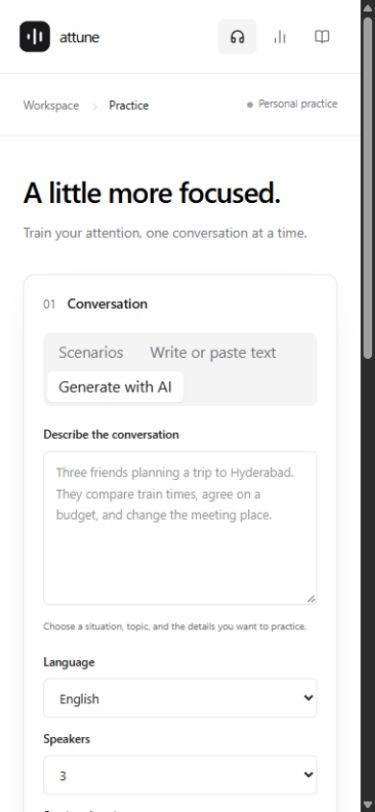
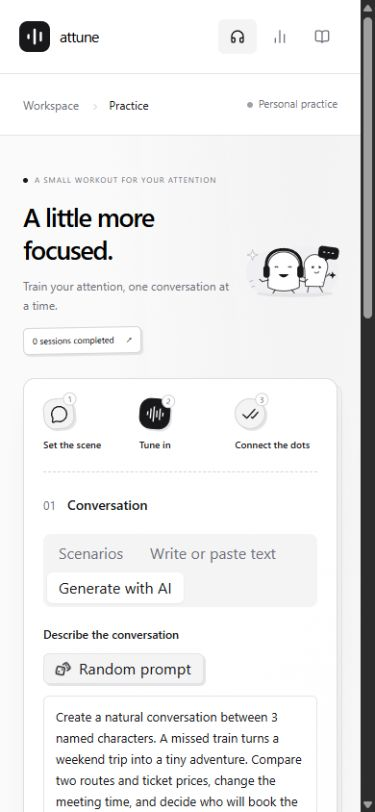
Add random scenario prompts and playful monochrome workspace illustrations

diff --git a/src/lib/random-prompts.ts b/src/lib/random-prompts.ts
@@ -1,0 +1,55 @@
+const scenarios: Record<string, string[]> = {
+  en: [
+    "A missed train turns a weekend trip into a tiny adventure. Compare two routes and ticket prices, change the meeting time, and decide who will book the replacement tickets.",
+    "A neighborhood café is planning a board-game night. Compare snack budgets, fix a double-booked table, and agree on a new start time and booking deadline.",
+    "The office plant has mysteriously vanished before an important visit. Compare clues, revise the welcome plan, and agree who will find a replacement before the deadline.",
+    "A group is opening a very small pop-up bookstore. Compare rent and transport costs, solve a late delivery, and decide the opening schedule and each task.",
+    "A picnic forecast suddenly predicts rain. Compare indoor alternatives and entry prices, change the food order, and settle on a meeting place and final time.",
+    "A community talent show has one microphone and too many ideas. Compare equipment costs, rearrange the running order, and assign setup jobs before the rehearsal.",
+    "A museum visit includes a surprisingly strict bag policy. Compare ticket options and transport times, change the lunch plan, and agree what everyone should bring.",
+    "A cooking workshop has accidentally ordered twice as many lemons. Compare recipe alternatives and supply costs, adjust the class schedule, and make a practical plan for the leftovers.",
+  ],
+  hi: [
+    "ट्रेन छूटने के बाद सप्ताहांत की यात्रा की नई योजना बनाइए। दो रास्तों और टिकट की कीमतों की तुलना करें, मिलने का समय बदलें और नई बुकिंग की जिम्मेदारी तय करें।",
+    "पड़ोस के कैफ़े में खेलों की शाम आयोजित की जा रही है। नाश्ते का बजट तय करें, मेज़ की दोहरी बुकिंग सुलझाएँ और नया समय तथा अंतिम तिथि तय करें।",
+    "एक महत्वपूर्ण बैठक से पहले दफ़्तर का पौधा गायब हो गया है। सुरागों की तुलना करें, स्वागत की योजना बदलें और समय पर नया पौधा लाने की जिम्मेदारी तय करें।",
+    "एक छोटी अस्थायी किताबों की दुकान खोलने की योजना बनाइए। किराए और परिवहन की लागत की तुलना करें, देर से आने वाली खेप का हल निकालें और काम बाँटें।",
+    "पिकनिक के दिन बारिश का अनुमान है। छत वाली जगहों और प्रवेश शुल्क की तुलना करें, खाने का ऑर्डर बदलें और मिलने का समय तथा स्थान तय करें।",
+    "सामुदायिक प्रतिभा कार्यक्रम में केवल एक माइक्रोफ़ोन है। उपकरण की लागत की तुलना करें, कार्यक्रम का क्रम बदलें और अभ्यास से पहले तैयारी के काम बाँटें।",
+    "संग्रहालय में बड़े बैग ले जाने पर रोक है। टिकट और यात्रा के विकल्पों की तुलना करें, दोपहर के भोजन की योजना बदलें और जरूरी सामान तय करें।",
+    "खाना बनाने की कार्यशाला में गलती से दुगने नींबू मँगाए गए हैं। व्यंजनों और खर्च की तुलना करें, कक्षा का समय बदलें और बचे नींबुओं के उपयोग की योजना बनाएँ।",
+  ],
+  te: [
+    "రైలు తప్పిపోవడంతో వారాంతపు ప్రయాణానికి కొత్త ప్రణాళిక వేయండి. రెండు మార్గాలు, టికెట్ ధరలు పోల్చి, కలిసే సమయాన్ని మార్చి, కొత్త టికెట్లు ఎవరు బుక్ చేయాలో నిర్ణయించండి.",
+    "పక్క వీధిలోని కేఫ్లో ఆటల సాయంత్రం నిర్వహించండి. తినుబండారాల బడ్జెట్ పోల్చి, ఒకే టేబుల్కు రెండు బుకింగ్ల సమస్య పరిష్కరించి, కొత్త సమయం, చివరి తేదీ నిర్ణయించండి.",
+    "ముఖ్యమైన సమావేశానికి ముందు ఆఫీసులోని మొక్క కనిపించడం లేదు. ఆధారాలు పోల్చి, స్వాగత ఏర్పాట్లు మార్చి, సమయానికి మరో మొక్క ఎవరు తీసుకురావాలో నిర్ణయించండి.",
+    "చిన్న తాత్కాలిక పుస్తకాల దుకాణాన్ని ప్రారంభించండి. అద్దె, రవాణా ఖర్చులు పోల్చి, ఆలస్యమైన సరుకు సమస్య పరిష్కరించి, ప్రారంభ సమయం, పనుల బాధ్యతలు నిర్ణయించండి.",
+    "వనభోజనం రోజున వర్షం వచ్చే అవకాశం ఉంది. పైకప్పు ఉన్న ప్రత్యామ్నాయ ప్రదేశాలు, ప్రవేశ ధరలు పోల్చి, భోజనం ఆర్డర్ మార్చి, కలిసే ప్రదేశం, సమయం నిర్ణయించండి.",
+    "కాలనీ ప్రతిభా ప్రదర్శనకు ఒకే మైక్ ఉంది. పరికరాల ఖర్చు పోల్చి, కార్యక్రమాల క్రమం మార్చి, సాధనకు ముందు ఏర్పాట్ల పనులు పంచుకోండి.",
+    "మ్యూజియంలో పెద్ద సంచులకు అనుమతి లేదు. టికెట్ ఎంపికలు, ప్రయాణ సమయాలు పోల్చి, మధ్యాహ్న భోజన ప్రణాళిక మార్చి, తీసుకురావాల్సిన వస్తువులు నిర్ణయించండి.",
+    "వంటల శిక్షణకు పొరపాటున రెట్టింపు నిమ్మకాయలు వచ్చాయి. వంటకాలు, ఖర్చులు పోల్చి, తరగతి సమయం మార్చి, మిగిలిన నిమ్మకాయల ఉపయోగానికి ప్రణాళిక వేయండి.",
+  ],
+};
+export function randomConversationPrompt(
+  lang: string,
+  speakers: number,
+  previousIndex = -1,
+  random = Math.random,
+) {
+  const choices = scenarios[lang] || scenarios.en;
+  const available = choices.map((_, i) => i).filter((i) => i !== previousIndex);
+  const index =
+    available[
+      Math.min(
+        available.length - 1,
+        Math.max(0, Math.floor(random() * available.length)),
+      )
+    ];
+  const intro =
+    lang === "te"
+      ? `${speakers} మంది పేర్లు ఉన్న పాత్రల మధ్య సహజమైన సంభాషణ రూపొందించండి. `
+      : lang === "hi"
+        ? `${speakers} नाम वाले पात्रों के बीच स्वाभाविक बातचीत बनाइए। `
+        : `Create a natural conversation between ${speakers} named characters. `;
+  return { index, text: intro + choices[index] };
+}

diff --git a/src/components/listening-doodle.tsx b/src/components/listening-doodle.tsx
@@ -1,0 +1,150 @@
+import { AudioLines, CheckCheck, MessageCircle } from "lucide-react";
+export function ListeningDoodle({
+  variant = "listen",
+}: {
+  variant?: "listen" | "library" | "progress";
+}) {
+  return (
+    <div className="listening-doodle" aria-hidden="true">
+      <span className="doodle-caption">
+        {variant === "library"
+          ? "good stories live here"
+          : variant === "progress"
+            ? "tiny steps. big ears."
+            : "all ears, zero distractions"}
+      </span>
+      <svg viewBox="0 0 300 166" fill="none" xmlns="http://www.w3.org/2000/svg">
+        <ellipse cx="157" cy="145" rx="108" ry="10" fill="#e4e4e7" />
+        <path
+          d="M18 82C18 37 66 14 122 28c48-36 123-14 151 25 25 37 4 88-51 91H80C44 144 18 120 18 82Z"
+          fill="#f0f0f2"
+        />
+        <path
+          d="m34 32 3-11 4 11 11 3-11 4-4 11-3-11-11-4 11-3Z"
+          fill="white"
+          stroke="#a1a1aa"
+          strokeWidth="1.5"
+        />
+        <path d="m261 90 3-8 3 8 8 3-8 3-3 8-3-8-8-3 8-3Z" fill="#18181b" />
+        <g className="doodle-pal doodle-pal-back">
+          <path
+            d="M185 74c-7-23 15-45 38-38 23 7 33 26 24 48l-10 41-50-1-2-50Z"
+            fill="white"
+            stroke="#18181b"
+            strokeWidth="2"
+          />
+          <path
+            d="m196 126-3 16m34-17 9 16"
+            stroke="#18181b"
+            strokeWidth="2"
+            strokeLinecap="round"
+          />
+          <circle cx="208" cy="70" r="2.8" fill="#18181b" />
+          <circle cx="228" cy="70" r="2.8" fill="#18181b" />
+          <path
+            d="M212 83q7 8 14-1"
+            stroke="#18181b"
+            strokeWidth="2"
+            strokeLinecap="round"
+          />
+          <path
+            d="m186 100-13-4m73 1 11-10"
+            stroke="#18181b"
+            strokeWidth="2"
+            strokeLinecap="round"
+          />
+        </g>
+        <g className="doodle-pal doodle-pal-front">
+          <path
+            d="M81 68c0-24 20-41 44-41s45 17 45 41v59c-27 14-62 14-89 0V68Z"
+            fill="white"
+            stroke="#18181b"
+            strokeWidth="2.2"
+          />
+          <path
+            d="M76 77V64c0-29 21-44 49-44s50 16 50 44v13"
+            stroke="#18181b"
+            strokeWidth="8"
+            strokeLinecap="round"
+          />
+          <rect x="68" y="66" width="18" height="34" rx="8" fill="#18181b" />
+          <rect x="164" y="66" width="18" height="34" rx="8" fill="#18181b" />
+          <path
+            d="M100 72q5-7 10 0m28 0q5-7 10 0"
+            stroke="#18181b"
+            strokeWidth="2.3"
+            strokeLinecap="round"
+          />
+          <path d="M111 90q14 18 29 0" fill="#18181b" />
+          <path
+            d="m102 134-7 10m53-10 8 10"
+            stroke="#18181b"
+            strokeWidth="2.2"
+            strokeLinecap="round"
+          />
+          <path
+            d="m83 106-18 5-8-7m113 4 15 4 8-8"
+            stroke="#18181b"
+            strokeWidth="2.2"
+            strokeLinecap="round"
+          />
+        </g>
+        <g transform="rotate(8 252 28)">
+          <path
+            d="M234 12h38a10 10 0 0 1 10 10v14a10 10 0 0 1-10 10h-15l-11 8v-8h-12a10 10 0 0 1-10-10V22a10 10 0 0 1 10-10Z"
+            fill="#18181b"
+          />
+          <path
+            d="M239 29h4m8 0h4m8 0h4"
+            stroke="white"
+            strokeWidth="3"
+            strokeLinecap="round"
+          />
+        </g>
+        <path
+          d="m29 112 9-5m-4 19 10-2m190-12 7 5"
+          stroke="#a1a1aa"
+          strokeWidth="1.8"
+          strokeLinecap="round"
+        />
+      </svg>
+    </div>
+  );
+}
+export function ListeningTrail() {
+  const steps = [
+    {
+      icon: MessageCircle,
+      title: "Set the scene",
+      detail: "A little everyday chaos.",
+    },
+    {
+      icon: AudioLines,
+      title: "Tune in",
+      detail: "One listen. Catch the details.",
+    },
+    {
+      icon: CheckCheck,
+      title: "Connect the dots",
+      detail: "Answer, learn, do it again.",
+    },
+  ];
+  return (
+    <div className="listening-trail" aria-label="How practice works">
+      {steps.map((step, i) => (
+        <div className="trail-step" key={step.title}>
+          <div className={`trail-icon trail-icon-${i}`}>
+            <step.icon size={19} strokeWidth={1.7} />
+            <span>{i + 1}</span>
+          </div>
+          <div>
+            <p className="text-xs font-medium">{step.title}</p>
+            <p className="text-[10px] text-muted-foreground mt-1 leading-4">
+              {step.detail}
+            </p>
+          </div>
+        </div>
+      ))}
+    </div>
+  );
+}

diff --git a/src/style.css b/src/style.css
@@ -12,3 +12,18 @@
 @keyframes flare-glow{0%{opacity:0;scale:.7}30%{opacity:1}100%{opacity:0;scale:1.4}}
 @media(max-width:560px){.session-summary dl{gap:12px}.session-summary dl>div{display:block}.session-summary dd{margin:4px 0 0}.setup-surface{padding:20px}.result-banner h2{font-size:17px}}
 @media(prefers-reduced-motion:reduce){*,*::before,*::after{animation:none!important;transition:none!important;scroll-behavior:auto!important}.celebration-layer{display:none}}
+
+/* A quiet paper workspace with a few imperfect, friendly details. */
+body{background:radial-gradient(ellipse at 85% 0%,#eaeaec80 0,transparent 48%),var(--background)}
+.workspace-welcome{display:flex;align-items:center;justify-content:space-between;gap:24px;min-height:190px;margin-bottom:26px;position:relative}
+.workspace-welcome h1{font-size:34px;letter-spacing:-1.25px}.workspace-welcome>div:first-child>div{margin-bottom:16px}
+.welcome-eyebrow{display:flex;align-items:center;gap:7px;text-transform:uppercase;font-size:9px;letter-spacing:1.4px;color:#71717a;margin-bottom:15px}.welcome-eyebrow>span{width:5px;height:5px;background:#18181b;border-radius:50%}
+.session-stamp{font-size:10px;border:1px solid #d4d4d8;background:white;box-shadow:2px 2px 0 #e4e4e7;border-radius:5px;padding:6px 9px;display:inline-flex;gap:12px;align-items:center;transform:rotate(-1deg)}
+.listening-doodle{width:270px;flex-shrink:0;position:relative;padding-top:17px}.listening-doodle svg{width:100%;display:block;overflow:visible}.doodle-caption{position:absolute;top:0;right:27px;font-size:9px;letter-spacing:.3px;color:#71717a;transform:rotate(5deg);border-bottom:1px dashed #a1a1aa;padding-bottom:3px}
+.doodle-pal-front{transform-origin:125px 130px;transition:transform .35s}.listening-doodle:hover .doodle-pal-front{transform:rotate(-5deg) translateY(-3px)}.doodle-pal-back{transform-origin:217px 129px;transition:transform .35s}.listening-doodle:hover .doodle-pal-back{transform:rotate(5deg)}
+.setup-surface{background:linear-gradient(135deg,#ffffff,#fdfdfd);border-color:#dedee2;box-shadow:0 1px 2px #18181b05,0 12px 30px -20px #18181b30,5px 5px 0 -1px #f1f1f3,5px 5px 0 #e4e4e7}
+.listening-trail{display:grid;grid-template-columns:repeat(3,minmax(0,1fr));gap:16px;border-bottom:1px dashed #d4d4d8;padding:0 0 24px;margin:0 0 28px}.trail-step{display:flex;gap:10px;align-items:center}.trail-icon{position:relative;display:flex;align-items:center;justify-content:center;flex-shrink:0;width:39px;height:39px;border:1px solid #d4d4d8;background:#f4f4f5;border-radius:12px;box-shadow:2px 2px 0 #e4e4e7;transform:rotate(-6deg)}.trail-icon-1{transform:rotate(5deg);background:#18181b;color:#fff;border-color:#18181b}.trail-icon-2{transform:rotate(-3deg);border-radius:50%}.trail-icon>span{position:absolute;top:-6px;right:-5px;background:white;color:#52525b;border:1px solid #d4d4d8;border-radius:50%;width:14px;height:14px;text-align:center;font-size:8px;line-height:12px}
+.random-prompt-button{box-shadow:2px 2px 0 #e4e4e7}.random-prompt-button:hover svg{transform:rotate(15deg)}.random-prompt-button svg{transition:transform .2s}.random-prompt-button:active{box-shadow:none}
+@media(max-width:1050px){.listening-doodle{width:210px}.workspace-welcome h1{font-size:30px}.listening-trail{gap:12px}.trail-step{align-items:flex-start;gap:8px}.trail-icon{width:32px;height:32px}}
+@media(max-width:640px){.workspace-welcome{min-height:0;gap:8px;margin-bottom:25px;align-items:center}.workspace-welcome h1{font-size:27px}.workspace-welcome>div:first-child{min-width:0}.listening-doodle{width:110px;margin-right:-8px}.doodle-caption{display:none}.welcome-eyebrow{font-size:8px;line-height:1.6;letter-spacing:1px}.session-stamp{font-size:9px}.listening-trail{gap:15px;grid-template-columns:1fr;padding-bottom:20px;margin-bottom:24px}.trail-step{align-items:center}.trail-icon{width:32px;height:32px}.workspace-welcome p{font-size:12px}.workspace-welcome>div:first-child>div{margin-bottom:12px}}
+@media(max-width:640px){.listening-trail{grid-template-columns:repeat(3,minmax(0,1fr));gap:14px}.trail-step{flex-direction:column;align-items:flex-start;gap:9px}.trail-step p:first-child{font-size:10px;line-height:15px}.trail-step p:last-child{display:none}}

diff --git a/src/App.tsx b/src/App.tsx
@@ -30,6 +30,7 @@ import {
   isAssessmentCurrent,
   type Question,
 } from "./lib/questions";
+import { ListeningDoodle, ListeningTrail } from "./components/listening-doodle";
 import { AnswerSheet } from "./components/answer-sheet";
 import {
   ResultCelebration,
@@ -850,15 +851,23 @@ export default function App() {
         <div className="max-w-[1120px] mx-auto px-6 lg:px-12 pt-10 pb-16">
           {phase === "setup" && view === "practice" && (
             <>
-              <div className="flex items-start justify-between">
-                <Heading title="A little more focused.">
-                  Train your attention, one conversation at a time.
-                </Heading>
-                <span className="hidden sm:inline text-xs text-muted-foreground border border-border rounded-md px-3 py-2 bg-white">
-                  {history.length} sessions completed
-                </span>
+              <div className="workspace-welcome">
+                <div>
+                  <span className="welcome-eyebrow">
+                    <span />A small workout for your attention
+                  </span>
+                  <Heading title="A little more focused.">
+                    Train your attention, one conversation at a time.
+                  </Heading>
+                  <span className="session-stamp">
+                    {history.length} sessions completed{" "}
+                    <span aria-hidden="true">↗</span>
+                  </span>
+                </div>
+                <ListeningDoodle />
               </div>
               <Card className="p-6 sm:p-8 setup-surface">
+                <ListeningTrail />
                 <fieldset disabled={audioBusy} className="min-w-0">
                   <Section number="01" title="Conversation">
                     <div className="inline-flex flex-wrap rounded-lg bg-zinc-100 p-1 mb-5 gap-1">
@@ -1512,9 +1521,12 @@ export default function App() {
           )}
           {phase === "setup" && view === "library" && (
             <>
-              <Heading title="Choose a conversation.">
-                Everyday situations. A few details worth catching.
-              </Heading>
+              <div className="workspace-welcome">
+                <Heading title="Choose a conversation.">
+                  Everyday situations. A few details worth catching.
+                </Heading>
+                <ListeningDoodle variant="library" />
+              </div>
               <h2 className="text-sm font-medium mb-4">
                 Your saved conversations
               </h2>
@@ -1557,9 +1569,12 @@ export default function App() {
           )}
           {phase === "setup" && view === "progress" && (
             <>
-              <Heading title="Your practice, over time.">
-                A record of showing up and paying attention.
-              </Heading>
+              <div className="workspace-welcome">
+                <Heading title="Your practice, over time.">
+                  A record of showing up and paying attention.
+                </Heading>
+                <ListeningDoodle variant="progress" />
+              </div>
               <div className="grid grid-cols-2 sm:grid-cols-4 gap-3 mb-8">
                 {[
                   [String(history.length), "Sessions"],

diff --git a/src/components/conversation-studio.tsx b/src/components/conversation-studio.tsx
@@ -1,6 +1,6 @@
 "use client";
 import { useEffect, useState } from "react";
-import { ArrowRight, LoaderCircle, Save, Sparkles } from "lucide-react";
+import { ArrowRight, LoaderCircle, Save, Sparkles, Dices } from "lucide-react";
 import { Button } from "./ui/button";
 import { Card } from "./ui/card";
 import type { Question } from "../lib/questions";
@@ -11,6 +11,7 @@ import {
   formatDuration,
   type SessionMinutes,
 } from "../lib/session-content";
+import { randomConversationPrompt } from "../lib/random-prompts";
 import { QuestionPreview } from "./question-preview";
 export type Draft = {
   id: string;
@@ -94,6 +95,8 @@ export function ConversationStudio({
   onCast: (cast: NonNullable<Draft["cast"]>) => void;
   ready: boolean;
 }) {
+  const [randomIndex, setRandomIndex] = useState(-1);
+  const [promptNotice, setPromptNotice] = useState("");
   const [prompt, setPrompt] = useState(""),
     [minutes, setMinutes] = useState<SessionMinutes>(2),
     [busy, setBusy] = useState(false),
@@ -216,19 +219,50 @@ export function ConversationStudio({
   }
   return (
     <div>
-      <label className="field" htmlFor="conversation-prompt">
-        Describe the conversation
-      </label>
+      <div className="flex items-center justify-between flex-wrap gap-3 mb-3">
+        <label className="text-xs font-medium" htmlFor="conversation-prompt">
+          Describe the conversation
+        </label>
+        <Button
+          variant="outline"
+          size="sm"
+          type="button"
+          disabled={busy}
+          className="random-prompt-button"
+          onClick={() => {
+            const next = randomConversationPrompt(lang, speakers, randomIndex);
+            setPrompt(next.text);
+            setRandomIndex(next.index);
+            setPromptNotice(
+              lang === "te"
+                ? "కొత్త ఆలోచన సిద్ధం. మార్చుకోవచ్చు లేదా సంభాషణ రూపొందించవచ్చు."
+                : lang === "hi"
+                  ? "नया विचार तैयार है। बदलाव करें या बातचीत बनाएँ।"
+                  : "Fresh idea, ready to make your own.",
+            );
+          }}
+        >
+          <Dices />
+          Random prompt
+        </Button>
+      </div>
       <textarea
         id="conversation-prompt"
         maxLength={1200}
         value={prompt}
         disabled={busy}
-        onChange={(e) => setPrompt(e.target.value)}
+        onChange={(e) => {
+          setPrompt(e.target.value);
+          setPromptNotice("");
+        }}
         placeholder="Three friends planning a trip to Hyderabad. They compare train times, agree on a budget, and change the meeting place."
       />
-      <p className="text-[10px] text-muted-foreground mt-2">
-        Choose a situation, topic, and the details you want to practice.
+      <p
+        role="status"
+        className="text-[10px] text-muted-foreground mt-2 min-h-4"
+      >
+        {promptNotice ||
+          "Choose a situation, topic, and the details you want to practice. Random ideas are free to shuffle."}
       </p>
       <div className="grid sm:grid-cols-3 gap-3 mt-5">
         <div>

diff --git a/README.md b/README.md
@@ -12,6 +12,9 @@ Attune is a multilingual listening-practice app for auditory attention, speaker 
 
 ## Features
 
+- **Random prompt:** shuffle editable scenario ideas locally in English, Hindi, or Telugu, using the selected speaker count. Consecutive shuffles avoid repeating the same scenario; no API request or credits are needed until you explicitly generate the conversation.
+- **Playful workspace:** original monochrome SVG listening characters, a three-step practice infographic, paper-like surfaces, and restrained interaction details add depth to setup, Library, and Progress. Decorative artwork stays out of the active test; reduced-motion preferences disable motion.
+
 - **Generate with AI:** describe a real-life situation; choose English, Telugu, or Hindi, 2–6 speakers, and **2, 5, 10, or 15 minute targets**. Each session includes 8, 12, 18, or 24 questions respectively, spanning all six formats.
 - **Write or paste text:** enter a title and `Speaker: dialogue` turns or import a `.txt` file.
 - **Automatic Library:** generated conversations save immediately; valid written/imported edits save after a short debounce. Prepared curated conversations are saved too. Saved conversations stay on this device.
